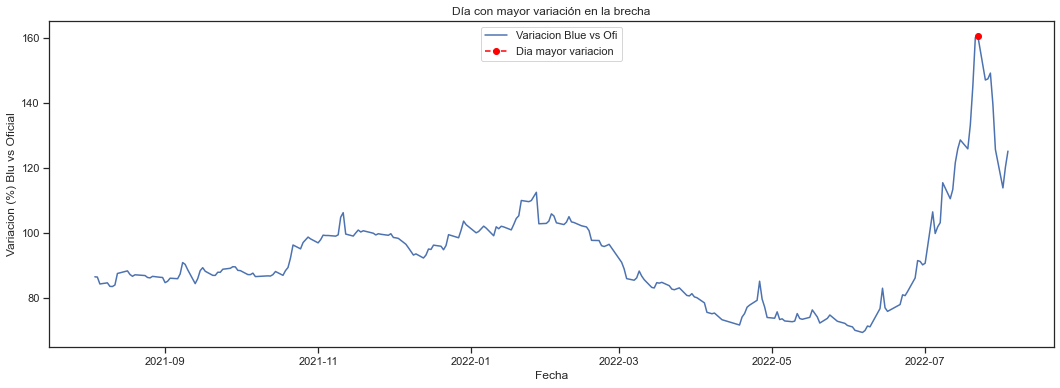
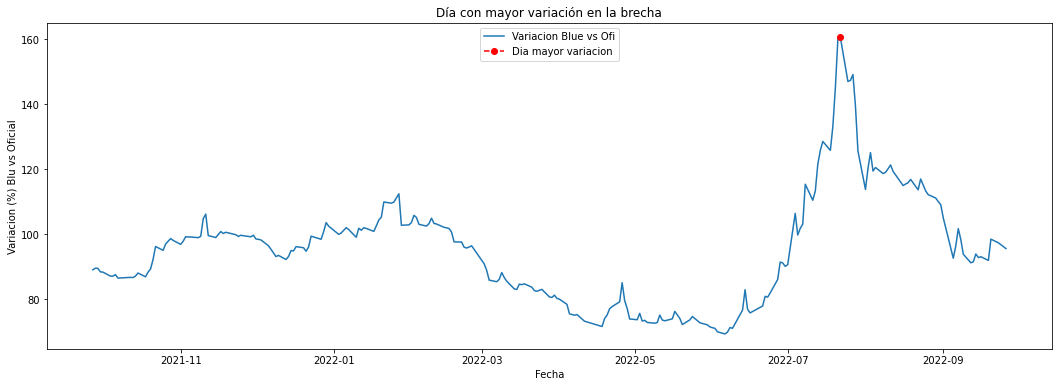
actu

diff --git a/README.md b/README.md
@@ -1,1 +1,46 @@
 # DolarBlue_vs_DolarOficial
+______-
+
+## API BCRA
+Enlace de la página: https://estadisticasbcra.com/  
+Documentación: https://estadisticasbcra.com/api/documentacion
+
+Informe sobre dólar en Argentina para un grupo financiero. Tener en cuenta que la gerencia le puede llegar a requerir nuevas consultas.
+
+Importar librerías  
+Automatizar código  
+Token BCRA  
+Endpoints: se pueden utilizar los que se consideren necesarios  
+Autorización y requests  
+Función para convertir Json a Dataframe  
+Limpieza de datos  
+Preguntas
+ * Dólar oficial vs Dólar Blue:   
+    * Últimos 365 días:
+        * 1) Día con mayor variación en la brecha  
+        | Date                |   Valor_var_usd_vs_usd_of |
+|:--------------------|--------------------------:|
+| 2022-07-22 00:00:00 |                   160.481 |
+        ![src\img01.png](https://github.com/Jhlirion/DolarBlue_vs_DolarOficial/blob/main/src/grafico01.png)
+        * 2) Top 5 días con mayor volatilidad  
+        ![src\img01.png](https://github.com/Jhlirion/DolarBlue_vs_DolarOficial/blob/main/src/grafico01.png)
+        * 3) Semana con mayor variación en la brecha 
+
+        * 4) Día de la semana donde hay mayor variación en la brecha   
+
+
+    * General:
+        * 5) Con la info histórica del valor del dólar y del blue, realizar un análisis exploratorio. Cruzar la data con sucesos importantes a nivel político-económico y graficar mes a mes.
+        
+        * 6) Implementar una regresión lineal (una para cada tipo de dólar) para predecir el valor del dólar en:
+            * 3 meses
+            * 6 meses
+            * 12 meses
+        * 7) Bonus opcional: Realizar una calculadora de predicción de aumento del dólar
+
+
+* Inflación vs Dólar
+    * Últimos 4 años:
+        * 8) Mejor momento para comprar dolár oficial y venderlo a dolár blu
+
+
